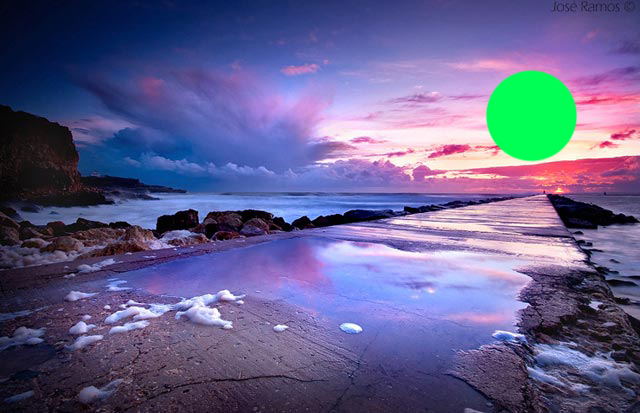
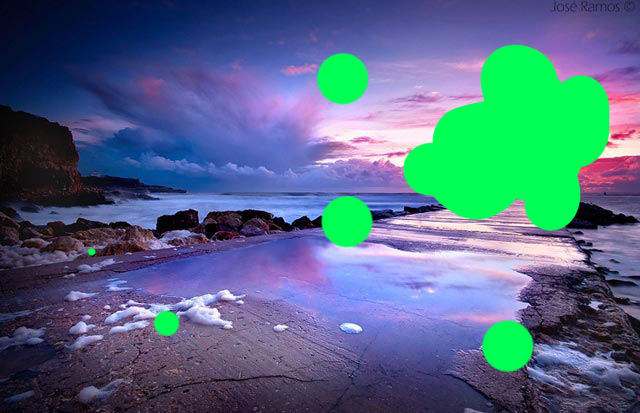
The program is able to find green forms

diff --git a/tracker.py b/tracker.py
@@ -1,2 +1,125 @@
-#def get_position(myimage):
+current_width = 0
+current_heigh = 0
 
+top_color = (0, 0, 0)
+bottom_color = (0, 0, 0)
+
+step = 0
+
+lastClockPosition = 0
+
+
+def get_position(pixel_map, size, newstep, color_to_found):
+    max_width = size[0]
+    max_height = size[1]
+
+    global current_width
+    current_width = 0
+    global current_heigh
+    current_heigh = 0
+
+    global top_color
+    top_color = (0, 255, 120)
+    global bottom_color
+    bottom_color = (0, 225, 90)
+
+    global step
+    step = newstep
+
+    # parcour all the map
+
+    nbr_iterations = 0
+
+    items_found = []
+    continue_analysis = True
+    while continue_analysis:
+        if current_width >= max_width:
+            current_width -= max_width
+            current_heigh += step
+        if current_heigh >= max_height:
+            print("ITERATIONS " + str(nbr_iterations))
+            print("ITEMS " + str(len(items_found)))
+            return items_found
+
+        pixel = pixel_map[current_width, current_heigh]
+
+        if is_pixel_matching(pixel):
+            newshape = color_matched(pixel_map)
+            if len(newshape) != 0:
+                items_found.append(newshape)
+
+        current_width += step
+        nbr_iterations += 1
+
+
+def color_matched(pixel_map):
+
+    still_matching = True
+
+    my_range = round(step/2)
+    pos_width = current_width
+    pos_heigh = current_heigh
+
+    iterations = 0
+    drawing_shape = []
+    still_in_shape = True
+    while still_in_shape:
+        val = check_nearby_pixels(pos_width, pos_heigh, pixel_map, my_range)
+
+        if val == "not_found":
+            my_big_range = round(my_range*2)
+            val = check_nearby_pixels(pos_width, pos_heigh, pixel_map, my_big_range)
+            if val == "not_found":
+                still_in_shape = False
+
+        if val != "not_found":
+            pos_width = val[0]
+            pos_heigh = val[1]
+            drawing_shape.append(val)
+
+        iterations += 1
+        if iterations > 50:
+            still_in_shape = False
+
+    # print("SHAPE" + str(drawing_shape))
+    return drawing_shape
+
+
+def check_nearby_pixels(checked_width, checked_height, pixel_map, my_range):
+    global lastClockPosition
+
+    half_range = round(my_range/2)
+    nearby_pixels = [[checked_width, checked_height + my_range],
+                     [checked_width + half_range, checked_height + half_range],
+                     [checked_width + my_range, checked_height],
+                     [checked_width + half_range, checked_height - half_range],
+                     [checked_width, checked_height - my_range],
+                     [checked_width - half_range, checked_height - half_range],
+                     [checked_width - my_range, checked_height],
+                     [checked_width - half_range, checked_height + half_range]]
+
+    where_out = False
+    iterations = 0
+    current_clock = lastClockPosition - 2
+    if current_clock < 0:
+        keep = current_clock
+        current_clock = 8 + current_clock
+
+    while iterations < 10:
+        if where_out:
+            if is_pixel_matching(pixel_map[nearby_pixels[current_clock][0], nearby_pixels[current_clock][1]]):
+                lastClockPosition = current_clock
+                return nearby_pixels[current_clock]
+        if not is_pixel_matching(pixel_map[nearby_pixels[current_clock][0], nearby_pixels[current_clock][1]]):
+            where_out = True
+
+        iterations += 1
+        current_clock += 1
+        if current_clock == 8:
+            current_clock = 0
+
+    return "not_found"
+
+
+def is_pixel_matching(pixel):
+    return bottom_color <= pixel <= top_color

diff --git a/Trackergui.py b/Trackergui.py
@@ -3,26 +3,57 @@ from PySide2.QtWidgets import *
 from PySide2.QtCore import *
 from PySide2.QtGui import *
 from PIL import Image
-
+from tracker import get_position
+import time
+import datetime
 
 class Trackergui(QWidget):
     def __init__(self):
         QWidget.__init__(self)
+        self.step = 0
+        self.my_color = (0, 0, 0)
+        self.map = 0
+        self.size = 0
+        self.graphic_view = QGraphicsView(self)
+        self.timer = QLabel()
 
     def ini_gui(self):
-        self.mainGridLayout = QGridLayout()
-        self.containImage = QLabel()
-        self.buttonLoad = QPushButton("Load")
+        self.mainGridLayout = QGridLayout(self)
+        self.containImage = QLabel(self)
+        self.buttonLoad = QPushButton("Load", self)
 
         self.setLayout(self.mainGridLayout)
 
         self.mainGridLayout.addWidget(self.containImage, 0, 0)
         self.mainGridLayout.addWidget(self.buttonLoad, 0, 1)
+        self.mainGridLayout.addWidget(self.graphic_view, 1, 0)
+        self.mainGridLayout.addWidget(self.timer, 1, 1)
 
         self.containImage.setPixmap(QPixmap("greentest.jpg"))
 
         self.my_image = Image.open("greentest.jpg")
         self.map = self.my_image.load()
+        self.size = self.my_image.size
 
-        print("-- IMAGE SIZE -- \n" + str(self.my_image.size))
-        print("-- IMAGE FIRST PIXEL -- \n" + str(self.map[1,1]))
+        self.step = 5
+        self.my_color = (0, 255, 84)
+
+        self.buttonLoad.clicked.connect(self.calltracker)
+
+    @Slot()
+    def calltracker(self):
+        count = time.time()
+        data = get_position(self.map, self.size, self.step, self.my_color)
+        print(str(data))
+
+        self.polygon = QPolygon()
+        self.scene = QGraphicsScene(0, 0, self.size[0], self.size[1])
+
+        for i in range(len(data)):
+            for j in range(len(data[i])):
+                self.polygon.append(QPoint(data[i][j][0], data[i][j][1]))
+
+        self.scene.addPolygon(self.polygon)
+        self.graphic_view.setScene(self.scene)
+
+        self.timer.setText(str(time.time() - count))

diff --git a/main.py b/main.py
@@ -9,7 +9,7 @@ if __name__ == "__main__":
 
     widget = Trackergui()
     widget.ini_gui()
-    widget.resize(800, 600)
+    widget.resize(800, 1200)
     widget.show()
 
     sys.exit(app.exec_())
